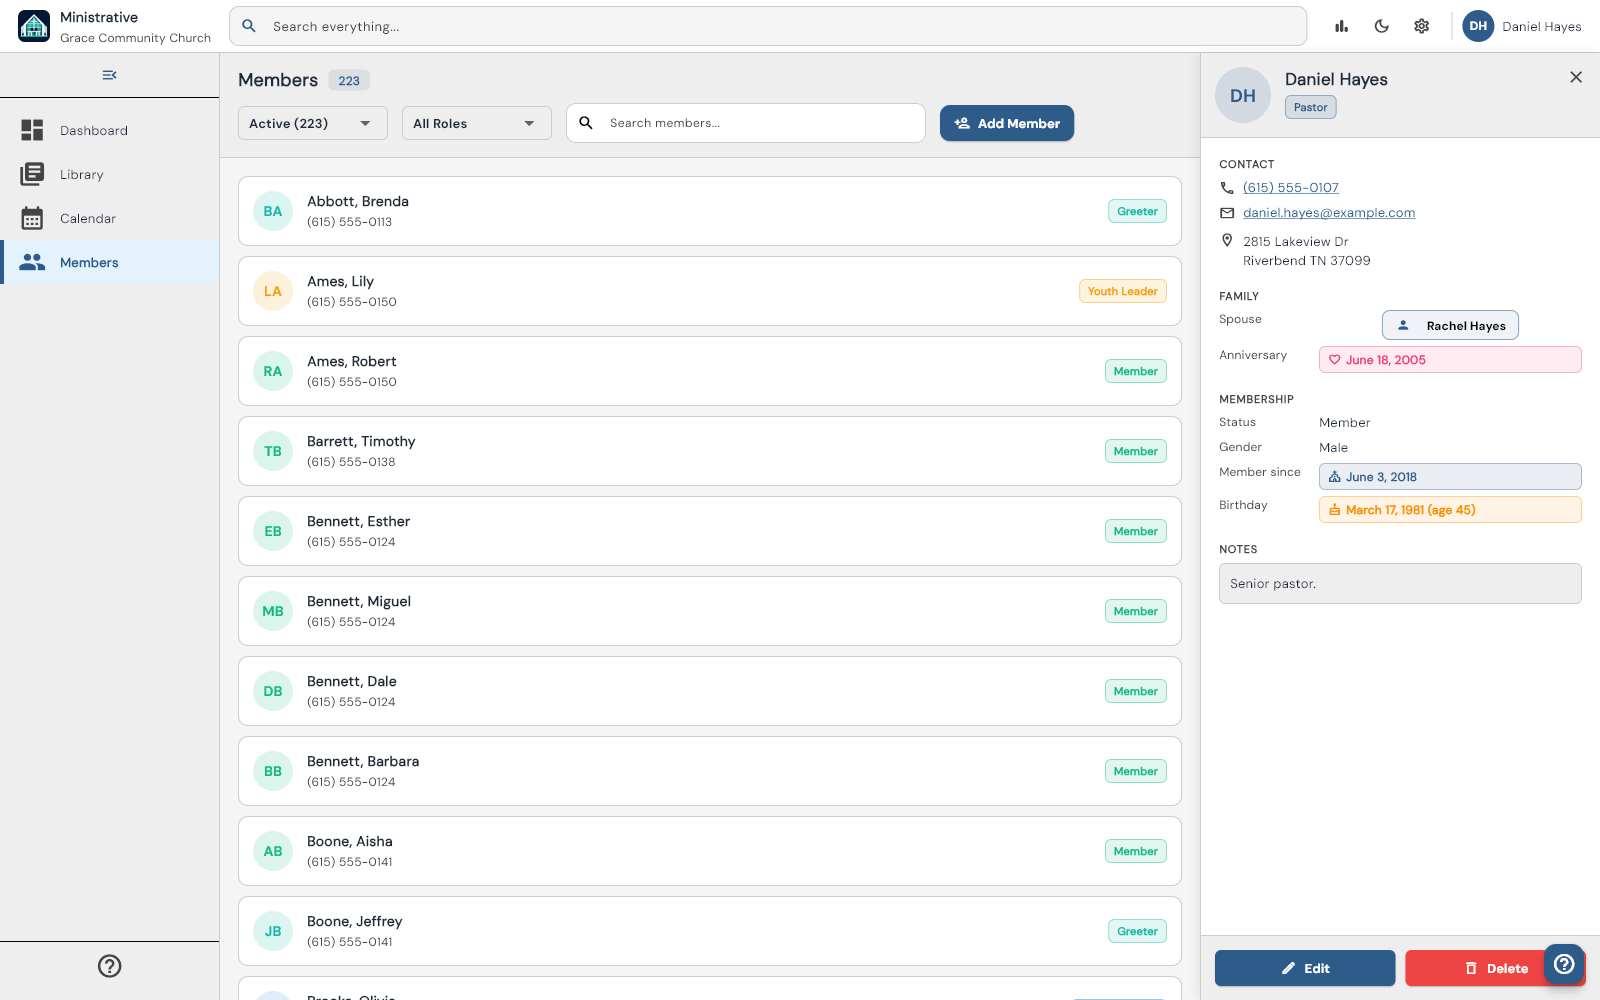
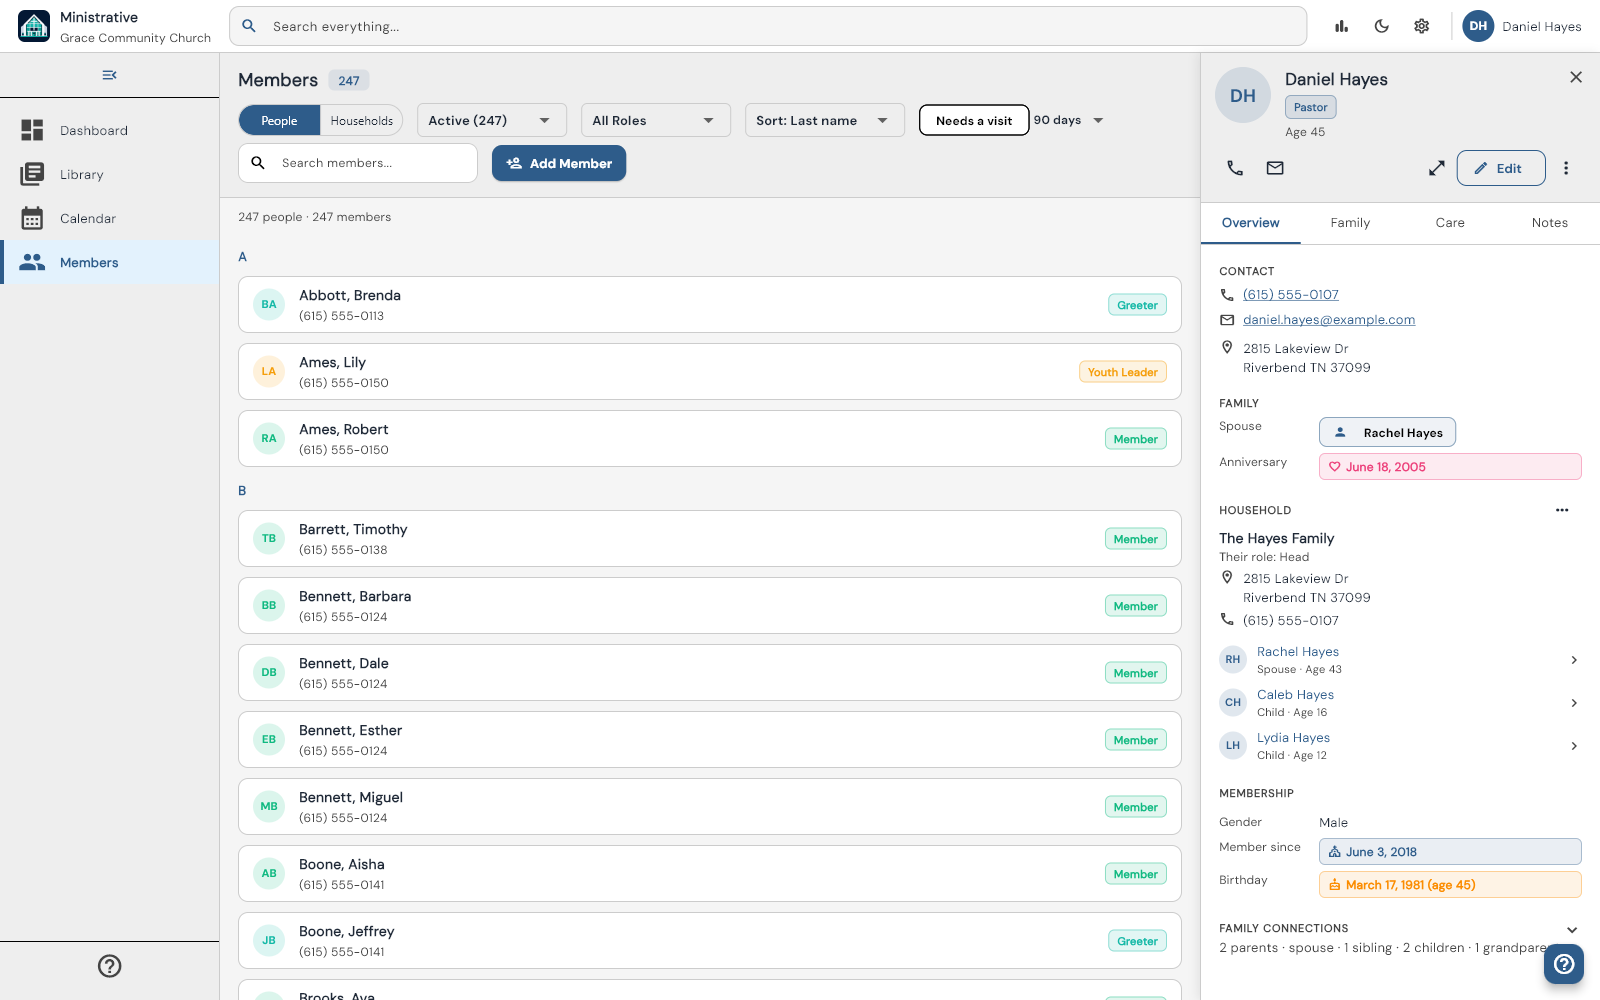
docs: fresh screenshots; households and family tree

diff --git a/README.md b/README.md
@@ -39,9 +39,16 @@ Ministrative keeps your Sunday sermons, Sunday School lessons, Wednesday Bible s
 
 - A directory of your congregation: phone, email, address, family, and the role each person serves in.
 - Birthdays and anniversaries show on the dashboard.
+- Group people into households, and see each family on one card.
+- Link parents and children to see a family tree, across households and up to five living generations.
+- Keep a private care log of visits, calls and cards, with follow-ups on the dashboard.
 - Only want the library? Turn the calendar or Members off in **Settings › Features**. Nothing is deleted.
 
-![A member's details](screenshots/09_member_details.png)
+![A member's profile](screenshots/09_member_details.png)
+
+![Households, one card per family](screenshots/13_households.png)
+
+![A family tree with five generations](screenshots/14_family_tree.png)
 
 ### Light or dark
 
